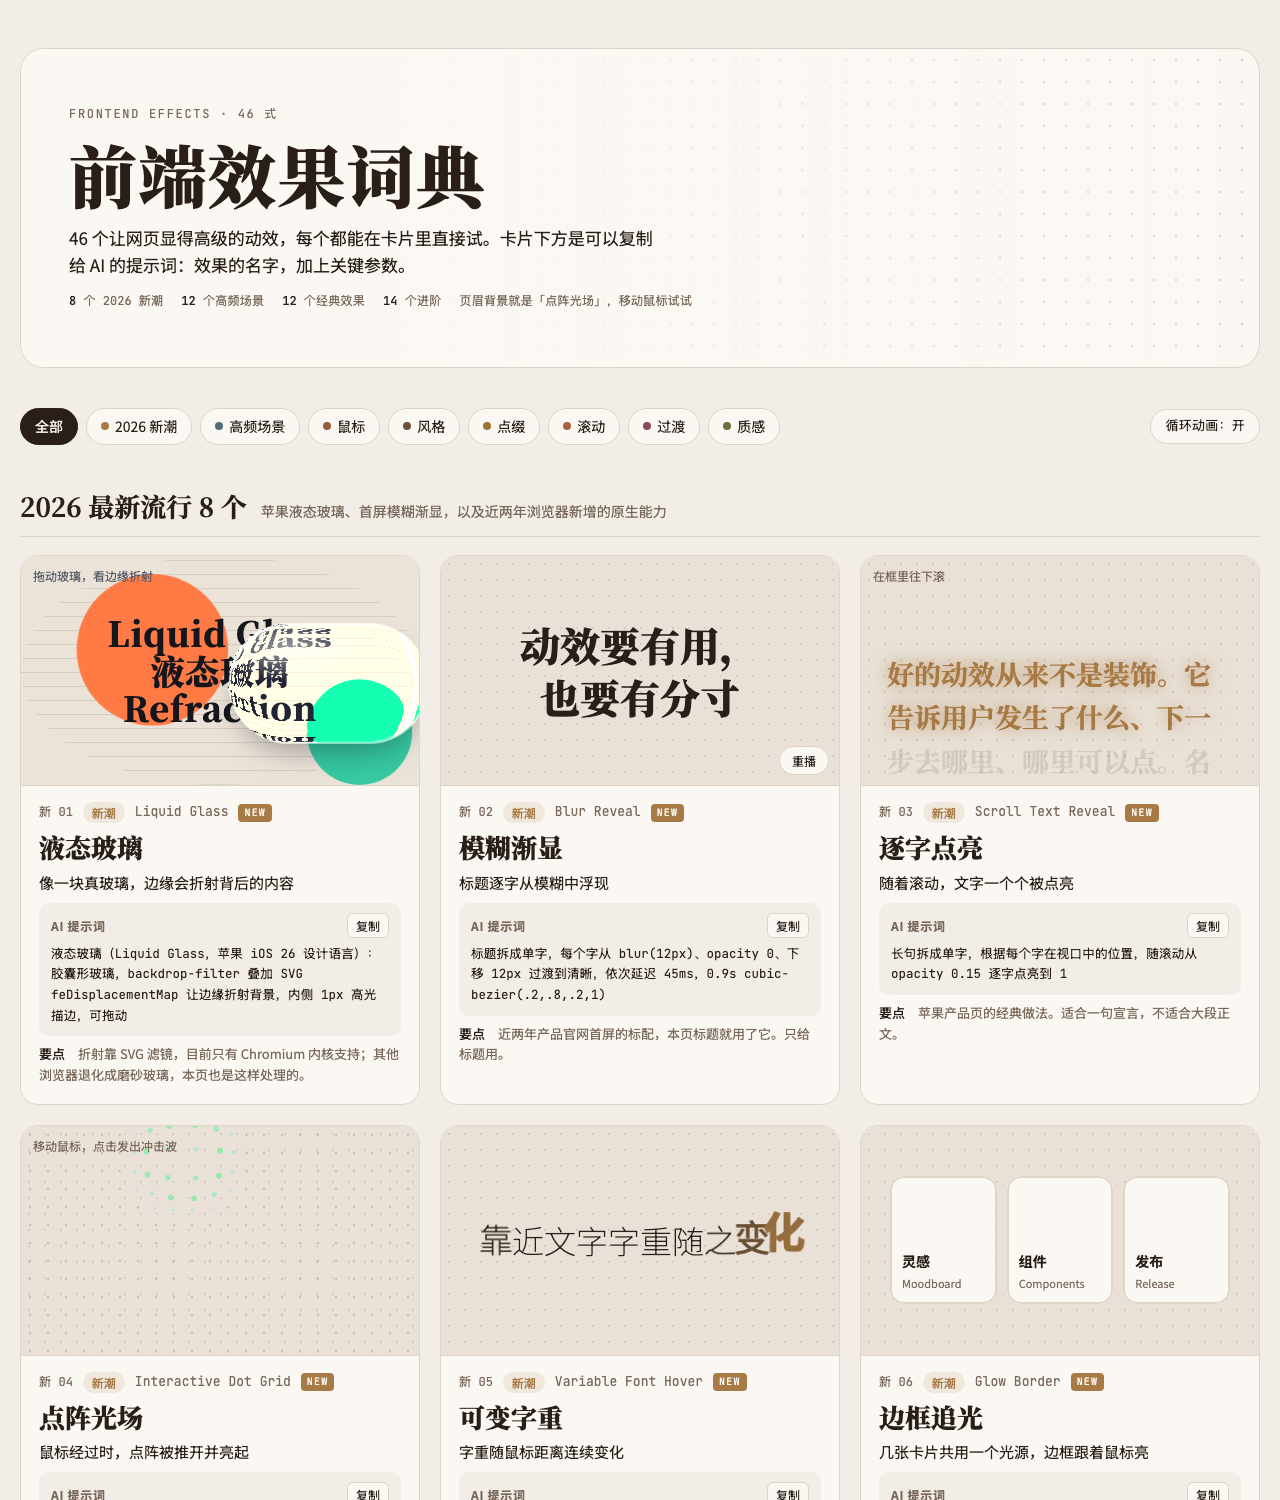
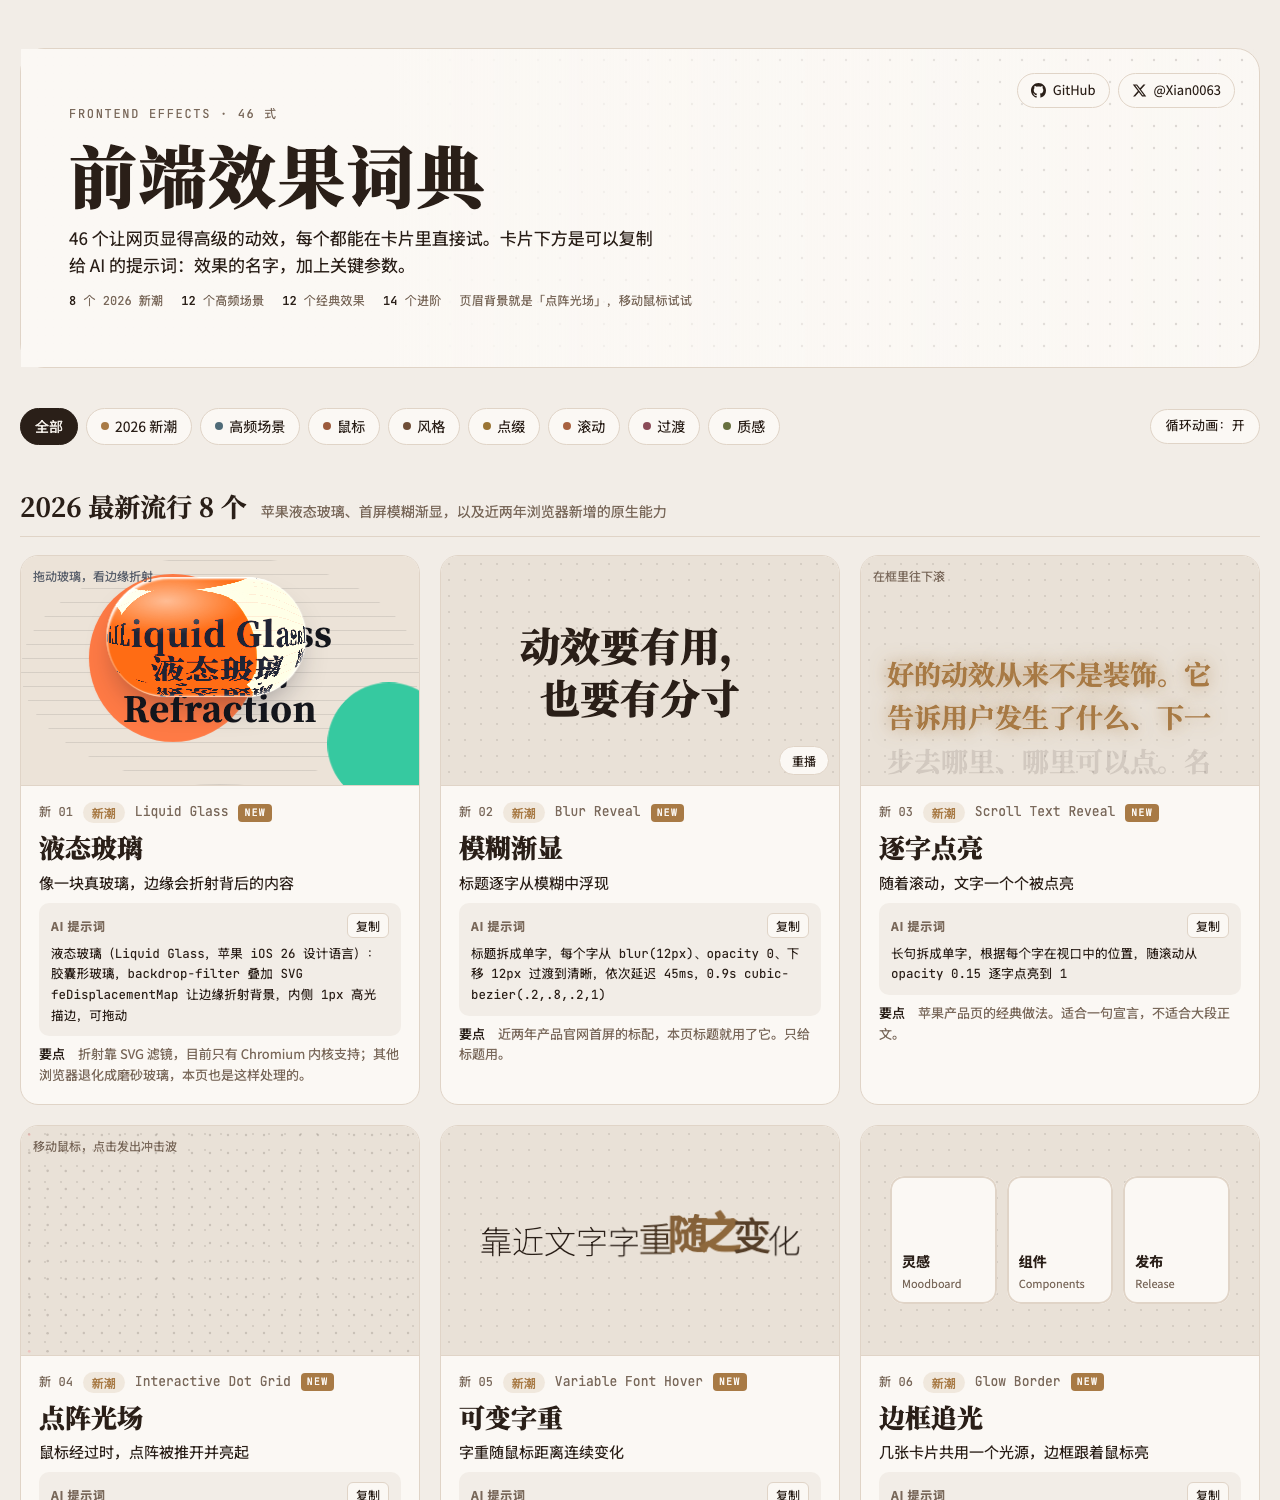
加入全部效果截图，网页加上 GitHub 与 X 入口

diff --git a/index.html b/index.html
@@ -78,6 +78,16 @@ header a, header button { pointer-events: auto; }
 @keyframes blurin { from { opacity: 0; filter: blur(22px); transform: translateY(46px) rotateX(-85deg) scale(1.5); } }
 .stats { display: flex; flex-wrap: wrap; gap: 6px 18px; font-family: var(--f-mono); font-size: 12px; color: var(--muted); }
 .stats b { color: var(--fg); font-weight: 500; }
+.links { position: absolute; z-index: 2; top: clamp(16px, 3vw, 24px); right: clamp(16px, 3vw, 24px); display: flex; gap: 8px; }
+.links a, .foot-links a { display: inline-flex; align-items: center; gap: 7px; text-decoration: none; color: var(--fg); }
+.links a { border: 1px solid var(--line); background: color-mix(in srgb, var(--surface) 82%, transparent); backdrop-filter: blur(8px); -webkit-backdrop-filter: blur(8px); border-radius: 999px; padding: 6px 13px; font-size: 13px; transition: background .2s, color .2s, border-color .2s, transform .2s; }
+.links a:hover { background: var(--fg); color: var(--bg); border-color: var(--fg); transform: translateY(-1px); }
+.links svg, .foot-links svg { width: 15px; height: 15px; flex: none; }
+.foot { display: flex; flex-wrap: wrap; justify-content: space-between; gap: 10px 20px; padding-top: 22px; border-top: 1px solid var(--line); font-size: 13px; color: var(--muted); }
+.foot-links { display: flex; flex-wrap: wrap; gap: 8px 20px; }
+.foot-links a { color: var(--muted); transition: color .2s; }
+.foot-links a:hover { color: var(--fg); }
+@media (max-width: 560px) { .links span { display: none; } .links a { padding: 8px; } }
 .eyebrow { font-family: var(--f-mono); font-size: 12px; letter-spacing: .14em; text-transform: uppercase; color: var(--muted); }
 h1 { font-family: var(--f-display); font-weight: 900; font-size: clamp(40px, 7vw, 68px); line-height: 1.05; margin: 0; letter-spacing: .02em; text-wrap: balance; }
 .lede { font-size: 17px; margin: 0; max-width: 62ch; }
@@ -796,6 +806,10 @@ small { font-size: 11px; letter-spacing: .08em; }
 <div class="wrap">
   <div class="hero" id="hero">
     <canvas aria-hidden="true"></canvas>
+    <nav class="links" aria-label="项目链接">
+      <a href="https://github.com/xianxie6/frontend-effects" target="_blank" rel="noopener"><svg viewBox="0 0 16 16" aria-hidden="true"><path fill="currentColor" d="M8 0C3.58 0 0 3.58 0 8c0 3.54 2.29 6.53 5.47 7.59.4.07.55-.17.55-.38 0-.19-.01-.82-.01-1.49-2.01.37-2.53-.49-2.69-.94-.09-.23-.48-.94-.82-1.13-.28-.15-.68-.52-.01-.53.63-.01 1.08.58 1.23.82.72 1.21 1.87.87 2.33.66.07-.52.28-.87.51-1.07-1.78-.2-3.64-.89-3.64-3.95 0-.87.31-1.59.82-2.15-.08-.2-.36-1.02.08-2.12 0 0 .67-.21 2.2.82.64-.18 1.32-.27 2-.27.68 0 1.36.09 2 .27 1.53-1.04 2.2-.82 2.2-.82.44 1.1.16 1.92.08 2.12.51.56.82 1.27.82 2.15 0 3.07-1.87 3.75-3.65 3.95.29.25.54.73.54 1.48 0 1.07-.01 1.93-.01 2.2 0 .21.15.46.55.38A8.013 8.013 0 0016 8c0-4.42-3.58-8-8-8z"/></svg><span>GitHub</span></a>
+      <a href="https://x.com/Xian0063" target="_blank" rel="noopener"><svg viewBox="0 0 24 24" aria-hidden="true"><path fill="currentColor" d="M18.244 2.25h3.308l-7.227 8.26 8.502 11.24H16.17l-5.214-6.817L4.99 21.75H1.68l7.73-8.835L1.254 2.25H8.08l4.713 6.231zm-1.161 17.52h1.833L7.084 4.126H5.117z"/></svg><span>@Xian0063</span></a>
+    </nav>
     <header>
       <div class="eyebrow">Frontend Effects · 46 式</div>
       <h1 class="br-title" aria-label="前端效果词典">前端效果词典</h1>
@@ -849,6 +863,10 @@ small { font-size: 11px; letter-spacing: .08em; }
       <li>更完整的提示词：做一个【效果名 + 英文名】用在【哪个元素】上，参数【角度 / 时长 / 半径 / 缓动】，触发方式【悬停 / 点击 / 滚动】，手机上【关闭 / 改为点击】。</li>
     </ol>
   </section>
+  <footer class="foot">
+    <span>前端效果词典 · MIT</span>
+    <span class="foot-links"><a href="https://github.com/xianxie6/frontend-effects" target="_blank" rel="noopener"><svg viewBox="0 0 16 16" aria-hidden="true"><path fill="currentColor" d="M8 0C3.58 0 0 3.58 0 8c0 3.54 2.29 6.53 5.47 7.59.4.07.55-.17.55-.38 0-.19-.01-.82-.01-1.49-2.01.37-2.53-.49-2.69-.94-.09-.23-.48-.94-.82-1.13-.28-.15-.68-.52-.01-.53.63-.01 1.08.58 1.23.82.72 1.21 1.87.87 2.33.66.07-.52.28-.87.51-1.07-1.78-.2-3.64-.89-3.64-3.95 0-.87.31-1.59.82-2.15-.08-.2-.36-1.02.08-2.12 0 0 .67-.21 2.2.82.64-.18 1.32-.27 2-.27.68 0 1.36.09 2 .27 1.53-1.04 2.2-.82 2.2-.82.44 1.1.16 1.92.08 2.12.51.56.82 1.27.82 2.15 0 3.07-1.87 3.75-3.65 3.95.29.25.54.73.54 1.48 0 1.07-.01 1.93-.01 2.2 0 .21.15.46.55.38A8.013 8.013 0 0016 8c0-4.42-3.58-8-8-8z"/></svg>GitHub 仓库</a><a href="https://x.com/Xian0063" target="_blank" rel="noopener"><svg viewBox="0 0 24 24" aria-hidden="true"><path fill="currentColor" d="M18.244 2.25h3.308l-7.227 8.26 8.502 11.24H16.17l-5.214-6.817L4.99 21.75H1.68l7.73-8.835L1.254 2.25H8.08l4.713 6.231zm-1.161 17.52h1.833L7.084 4.126H5.117z"/></svg>关注 @Xian0063</a></span>
+  </footer>
 </div>
 
 <script>

diff --git a/README.md b/README.md
@@ -2,7 +2,7 @@
 
 46 个让网页显得高级的前端动效，每个都能在页面里直接上手试，并附一条可以复制给 AI 的提示词。
 
-**在线打开 → https://xianxie6.github.io/frontend-effects/**
+**在线打开 → https://xianxie6.github.io/frontend-effects/**　·　作者 X：[@Xian0063](https://x.com/Xian0063)
 
 ![前端效果词典预览](docs/preview.png)
 
@@ -22,6 +22,108 @@
 | 进阶 | 14 | 滚动渐显、视差滚动、吸顶叙事、滚动驱动动画、平滑滚动、错峰入场、数字滚动、页面转场、弹簧动画、文字扫光、无限跑马灯、骨架屏、噪点颗粒、液态变形 |
 
 「高频场景」里的效果参考了 GitHub 上使用最多的动效库：typed.js、particles.js、Swiper、canvas-confetti、Rough Notation、Magic UI、React Bits 等。
+
+## 效果一览
+
+每张图都是该效果最精彩的一刻。打开在线页面可以亲手试。
+
+### 2026 最新流行 · 8
+
+<table>
+<tr>
+<td width="33%" align="center"><a href="https://xianxie6.github.io/frontend-effects/#liquid"><img src="docs/effects/liquid.jpg" alt="液态玻璃"></a><br><b>液态玻璃</b><br><sub>Liquid Glass</sub></td>
+<td width="33%" align="center"><a href="https://xianxie6.github.io/frontend-effects/#blurin"><img src="docs/effects/blurin.jpg" alt="模糊渐显"></a><br><b>模糊渐显</b><br><sub>Blur Reveal</sub></td>
+<td width="33%" align="center"><a href="https://xianxie6.github.io/frontend-effects/#textscroll"><img src="docs/effects/textscroll.jpg" alt="逐字点亮"></a><br><b>逐字点亮</b><br><sub>Scroll Text Reveal</sub></td>
+</tr>
+<tr>
+<td width="33%" align="center"><a href="https://xianxie6.github.io/frontend-effects/#dots"><img src="docs/effects/dots.jpg" alt="点阵光场"></a><br><b>点阵光场</b><br><sub>Interactive Dot Grid</sub></td>
+<td width="33%" align="center"><a href="https://xianxie6.github.io/frontend-effects/#varfont"><img src="docs/effects/varfont.jpg" alt="可变字重"></a><br><b>可变字重</b><br><sub>Variable Font Hover</sub></td>
+<td width="33%" align="center"><a href="https://xianxie6.github.io/frontend-effects/#glow"><img src="docs/effects/glow.jpg" alt="边框追光"></a><br><b>边框追光</b><br><sub>Glow Border</sub></td>
+</tr>
+<tr>
+<td width="33%" align="center"><a href="https://xianxie6.github.io/frontend-effects/#goo"><img src="docs/effects/goo.jpg" alt="粘滞融合"></a><br><b>粘滞融合</b><br><sub>Gooey</sub></td>
+<td width="33%" align="center"><a href="https://xianxie6.github.io/frontend-effects/#autoh"><img src="docs/effects/autoh.jpg" alt="高度自动过渡"></a><br><b>高度自动过渡</b><br><sub>interpolate-size</sub></td>
+</tr>
+</table>
+
+### 高频场景 · 12
+
+<table>
+<tr>
+<td width="33%" align="center"><a href="https://xianxie6.github.io/frontend-effects/#typing"><img src="docs/effects/typing.jpg" alt="打字机 + 轮换词"></a><br><b>打字机 + 轮换词</b><br><sub>Typewriter</sub></td>
+<td width="33%" align="center"><a href="https://xianxie6.github.io/frontend-effects/#particles"><img src="docs/effects/particles.jpg" alt="连线粒子"></a><br><b>连线粒子</b><br><sub>Particles</sub></td>
+<td width="33%" align="center"><a href="https://xianxie6.github.io/frontend-effects/#dock"><img src="docs/effects/dock.jpg" alt="程序坞放大"></a><br><b>程序坞放大</b><br><sub>Dock</sub></td>
+</tr>
+<tr>
+<td width="33%" align="center"><a href="https://xianxie6.github.io/frontend-effects/#confetti"><img src="docs/effects/confetti.jpg" alt="彩纸庆祝"></a><br><b>彩纸庆祝</b><br><sub>Confetti</sub></td>
+<td width="33%" align="center"><a href="https://xianxie6.github.io/frontend-effects/#coverflow"><img src="docs/effects/coverflow.jpg" alt="3D 封面流"></a><br><b>3D 封面流</b><br><sub>Coverflow</sub></td>
+<td width="33%" align="center"><a href="https://xianxie6.github.io/frontend-effects/#stack"><img src="docs/effects/stack.jpg" alt="滚动卡片堆叠"></a><br><b>滚动卡片堆叠</b><br><sub>Scroll Stack</sub></td>
+</tr>
+<tr>
+<td width="33%" align="center"><a href="https://xianxie6.github.io/frontend-effects/#alist"><img src="docs/effects/alist.jpg" alt="通知动态列表"></a><br><b>通知动态列表</b><br><sub>Animated List</sub></td>
+<td width="33%" align="center"><a href="https://xianxie6.github.io/frontend-effects/#integrate"><img src="docs/effects/integrate.jpg" alt="集成光束图"></a><br><b>集成光束图</b><br><sub>Animated Beam</sub></td>
+<td width="33%" align="center"><a href="https://xianxie6.github.io/frontend-effects/#buttons"><img src="docs/effects/buttons.jpg" alt="扫光 · 彩虹 · 脉冲按钮"></a><br><b>扫光 · 彩虹 · 脉冲按钮</b><br><sub>CTA Buttons</sub></td>
+</tr>
+<tr>
+<td width="33%" align="center"><a href="https://xianxie6.github.io/frontend-effects/#warp"><img src="docs/effects/warp.jpg" alt="透视网格 + 流星"></a><br><b>透视网格 + 流星</b><br><sub>Retro Grid</sub></td>
+<td width="33%" align="center"><a href="https://xianxie6.github.io/frontend-effects/#progress"><img src="docs/effects/progress.jpg" alt="进度条 + 主题切换"></a><br><b>进度条 + 主题切换</b><br><sub>Progress + Theme</sub></td>
+<td width="33%" align="center"><a href="https://xianxie6.github.io/frontend-effects/#notation"><img src="docs/effects/notation.jpg" alt="手绘圈注"></a><br><b>手绘圈注</b><br><sub>Rough Notation</sub></td>
+</tr>
+</table>
+
+### 经典 · 12
+
+<table>
+<tr>
+<td width="33%" align="center"><a href="https://xianxie6.github.io/frontend-effects/#tilt"><img src="docs/effects/tilt.jpg" alt="三维倾斜"></a><br><b>三维倾斜</b><br><sub>3D Tilt</sub></td>
+<td width="33%" align="center"><a href="https://xianxie6.github.io/frontend-effects/#glass"><img src="docs/effects/glass.jpg" alt="毛玻璃"></a><br><b>毛玻璃</b><br><sub>Glassmorphism</sub></td>
+<td width="33%" align="center"><a href="https://xianxie6.github.io/frontend-effects/#beam"><img src="docs/effects/beam.jpg" alt="流光边框"></a><br><b>流光边框</b><br><sub>Border Beam</sub></td>
+</tr>
+<tr>
+<td width="33%" align="center"><a href="https://xianxie6.github.io/frontend-effects/#spot"><img src="docs/effects/spot.jpg" alt="聚光灯"></a><br><b>聚光灯</b><br><sub>Spotlight</sub></td>
+<td width="33%" align="center"><a href="https://xianxie6.github.io/frontend-effects/#bento"><img src="docs/effects/bento.jpg" alt="便当盒布局"></a><br><b>便当盒布局</b><br><sub>Bento Grid</sub></td>
+<td width="33%" align="center"><a href="https://xianxie6.github.io/frontend-effects/#scramble"><img src="docs/effects/scramble.jpg" alt="乱码解码"></a><br><b>乱码解码</b><br><sub>Text Scramble</sub></td>
+</tr>
+<tr>
+<td width="33%" align="center"><a href="https://xianxie6.github.io/frontend-effects/#magnet"><img src="docs/effects/magnet.jpg" alt="磁吸按钮"></a><br><b>磁吸按钮</b><br><sub>Magnetic</sub></td>
+<td width="33%" align="center"><a href="https://xianxie6.github.io/frontend-effects/#aurora"><img src="docs/effects/aurora.jpg" alt="极光背景"></a><br><b>极光背景</b><br><sub>Aurora</sub></td>
+<td width="33%" align="center"><a href="https://xianxie6.github.io/frontend-effects/#flip"><img src="docs/effects/flip.jpg" alt="卡片翻转"></a><br><b>卡片翻转</b><br><sub>Card Flip</sub></td>
+</tr>
+<tr>
+<td width="33%" align="center"><a href="https://xianxie6.github.io/frontend-effects/#trail"><img src="docs/effects/trail.jpg" alt="光标拖尾"></a><br><b>光标拖尾</b><br><sub>Cursor Trail</sub></td>
+<td width="33%" align="center"><a href="https://xianxie6.github.io/frontend-effects/#neu"><img src="docs/effects/neu.jpg" alt="新拟态"></a><br><b>新拟态</b><br><sub>Neumorphism</sub></td>
+<td width="33%" align="center"><a href="https://xianxie6.github.io/frontend-effects/#ripple"><img src="docs/effects/ripple.jpg" alt="点击涟漪"></a><br><b>点击涟漪</b><br><sub>Ripple</sub></td>
+</tr>
+</table>
+
+### 进阶 · 14
+
+<table>
+<tr>
+<td width="33%" align="center"><a href="https://xianxie6.github.io/frontend-effects/#reveal"><img src="docs/effects/reveal.jpg" alt="滚动渐显"></a><br><b>滚动渐显</b><br><sub>Scroll Reveal</sub></td>
+<td width="33%" align="center"><a href="https://xianxie6.github.io/frontend-effects/#parallax"><img src="docs/effects/parallax.jpg" alt="视差滚动"></a><br><b>视差滚动</b><br><sub>Parallax</sub></td>
+<td width="33%" align="center"><a href="https://xianxie6.github.io/frontend-effects/#sticky"><img src="docs/effects/sticky.jpg" alt="吸顶叙事"></a><br><b>吸顶叙事</b><br><sub>Sticky Scroll</sub></td>
+</tr>
+<tr>
+<td width="33%" align="center"><a href="https://xianxie6.github.io/frontend-effects/#scrolldriven"><img src="docs/effects/scrolldriven.jpg" alt="滚动驱动动画"></a><br><b>滚动驱动动画</b><br><sub>Scroll-driven Animation</sub></td>
+<td width="33%" align="center"><a href="https://xianxie6.github.io/frontend-effects/#smooth"><img src="docs/effects/smooth.jpg" alt="平滑滚动"></a><br><b>平滑滚动</b><br><sub>Smooth Scroll</sub></td>
+<td width="33%" align="center"><a href="https://xianxie6.github.io/frontend-effects/#stagger"><img src="docs/effects/stagger.jpg" alt="错峰入场"></a><br><b>错峰入场</b><br><sub>Stagger</sub></td>
+</tr>
+<tr>
+<td width="33%" align="center"><a href="https://xianxie6.github.io/frontend-effects/#countup"><img src="docs/effects/countup.jpg" alt="数字滚动"></a><br><b>数字滚动</b><br><sub>Count Up</sub></td>
+<td width="33%" align="center"><a href="https://xianxie6.github.io/frontend-effects/#vt"><img src="docs/effects/vt.jpg" alt="页面转场"></a><br><b>页面转场</b><br><sub>View Transitions</sub></td>
+<td width="33%" align="center"><a href="https://xianxie6.github.io/frontend-effects/#spring"><img src="docs/effects/spring.jpg" alt="弹簧动画"></a><br><b>弹簧动画</b><br><sub>Spring</sub></td>
+</tr>
+<tr>
+<td width="33%" align="center"><a href="https://xianxie6.github.io/frontend-effects/#shimmer"><img src="docs/effects/shimmer.jpg" alt="文字扫光"></a><br><b>文字扫光</b><br><sub>Shimmer Text</sub></td>
+<td width="33%" align="center"><a href="https://xianxie6.github.io/frontend-effects/#marquee"><img src="docs/effects/marquee.jpg" alt="无限跑马灯"></a><br><b>无限跑马灯</b><br><sub>Marquee</sub></td>
+<td width="33%" align="center"><a href="https://xianxie6.github.io/frontend-effects/#skeleton"><img src="docs/effects/skeleton.jpg" alt="骨架屏"></a><br><b>骨架屏</b><br><sub>Skeleton</sub></td>
+</tr>
+<tr>
+<td width="33%" align="center"><a href="https://xianxie6.github.io/frontend-effects/#grain"><img src="docs/effects/grain.jpg" alt="噪点颗粒"></a><br><b>噪点颗粒</b><br><sub>Grain</sub></td>
+<td width="33%" align="center"><a href="https://xianxie6.github.io/frontend-effects/#blob"><img src="docs/effects/blob.jpg" alt="液态变形"></a><br><b>液态变形</b><br><sub>Blob Morph</sub></td>
+</tr>
+</table>
 
 ## 使用方式
 
